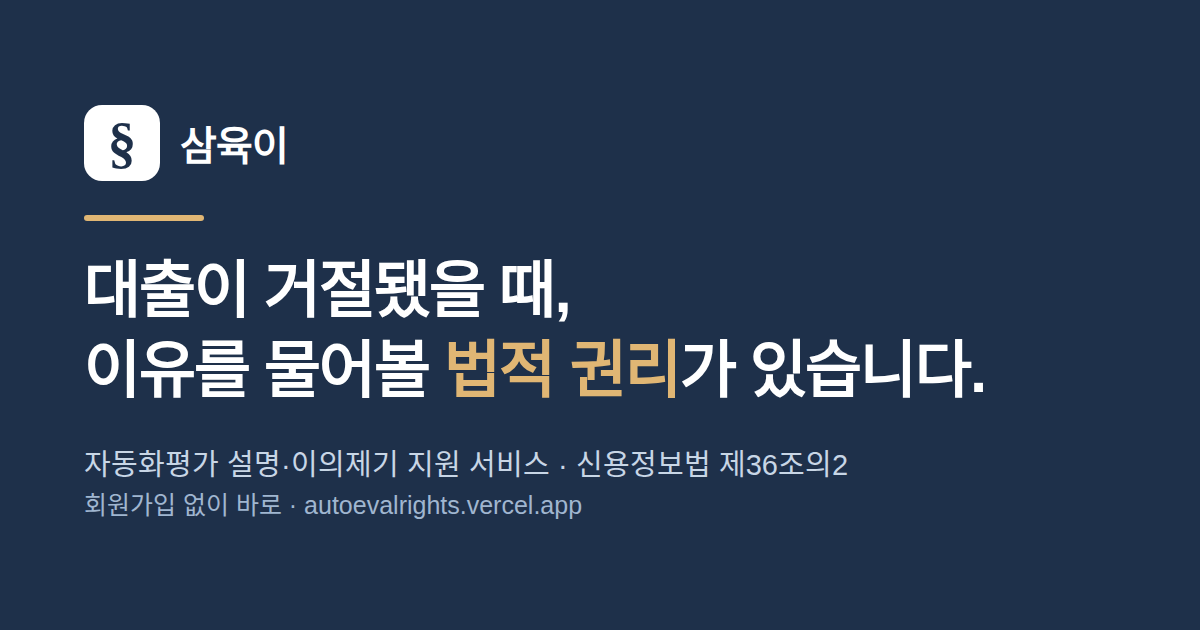
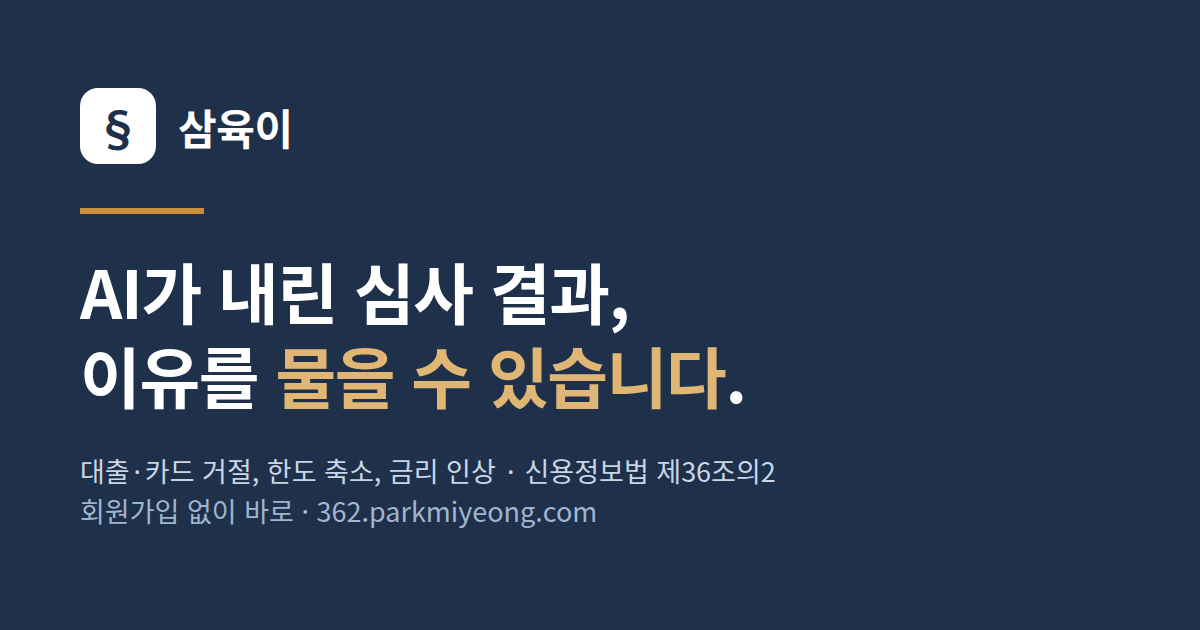
feat(A): 제목을 사건 하나에서 떼어낸다 · 서식 정본 미대조를 밝힌다
[A] 랜딩 제목
  앞선 제목은 "대출이 거절됐을 때"로 시작해 다섯 사건 중 하나에만 말을 걸었다.
  한도 축소·금리 인상으로 온 사람에게는 남의 이야기로 읽힌다.
  제목은 다섯 사건의 공통점(AI가 내린 심사 결과)을 말하고,
  사건 이름은 부제가 늘어놓는다. 부제의 조문에 근거 배지를 달았다.
  쉬운 말 보기 문구도 함께 넣었다 — 짧게 유지했다. 제목이 한 줄 늘 때마다
  375×667 에서 버튼과 자가진단이 첫 화면 밖으로 밀린다.

  재어 보고 확인했다(375×667): [내 상황으로 시작하기] 357→343,
  자가진단 제목 655→641. 둘 다 첫 화면 안에 남았고 오히려 올라왔다.

  링크 미리보기 카드(og.png)에도 옛 제목과 옛 주소가 그림으로 박혀 있었다.
  원본이 없어 고칠 수 없던 것이라 원본(tools/og-card.html)부터 만들고 다시 그렸다.

[A-2] 나머지 판단
  · /response 붙여넣기 칸 위치 — 그대로 둔다(예선의 사용자는 심사위원이다)
  · 진단 결과 CTA — 큰 버튼은 그대로 두고, 결과 앞머리에 조용한 한 줄을 더했다.
    결과 제목과 버튼 사이가 375px 에서 1,917px 였다. 큰 버튼을 위로 올리면
    권리를 보기 전에 눌러 버리므로 올리지 않았다.
  · 서식 1 정본 — 구하지 못하는 것으로 결론짓고, 그 사실을 화면에 적는다.
    "별지 15의2가 개정됐다"고 단정하지 않는다. 확인한 것은 감독규정이
    2026-08-13 개정됐다는 것까지다.

시험: tests/thero.mjs 28항목 신설. rename 의 "왜요?" 문장 검사는
      문장이 아니라 "이전 이름이 남지 않는다"를 검사하도록 바꿨다.

diff --git a/src/pages/Landing.jsx b/src/pages/Landing.jsx
@@ -94,16 +94,36 @@ export default function Landing() {
       {/* ── 1. 무슨 서비스인가 ───────────────────────────────── */}
       <section className="space-y-4">
         {/* 서비스 부제는 화면 맨 위 머리말에 이미 있다. 여기서 되풀이하지 않는다. */}
+        {/*
+          ★ 제목을 사건 하나에 묶지 않는다. (2026-08-31)
+            앞선 제목은 "대출이 거절됐을 때"로 시작했다. 그런데 이 서비스는
+            신용대출 거절·한도 축소·카드 발급 거절·금리 인상·리스/할부 거절을
+            모두 다룬다. 금리가 오른 사람에게 그 제목은 남의 이야기로 읽힌다.
+            제목은 다섯 사건의 공통점(= AI 가 정한 심사 결과)을 말하고,
+            사건 이름은 부제에서 늘어놓는다.
+        */}
         <h1 className="text-3xl font-bold leading-tight text-gray-900 sm:text-4xl">
-          대출이 거절됐을 때,
-          <br />
-          이유를 물어볼 <span className="text-ink-700">법적 권리</span>가 있습니다.
+          <Plain id="landing.hero">
+            AI가 내린 심사 결과,
+            <br />
+            이유를 <span className="text-ink-700">물을 수 있습니다</span>.
+          </Plain>
         </h1>
-        {/* 서비스가 무엇인지 한 줄. "왜요?"는 이제 이름이 아니라 설명 문장이다. */}
-        <p className="max-w-prose text-lg text-gray-800 sm:text-xl">
-          AI가 내린 결정에도 <b className="text-ink-800">&ldquo;왜요?&rdquo;</b>라고 물을 수
-          있습니다.
-          <b> 삼육이는 그 요구서를 대신 만들어 드립니다.</b>
+        {/* 부제 — 어느 사건이 해당되는지, 무엇을 근거로 하는지, 우리가 무엇을 하는지.
+            근거 배지는 이 문단 안에 인라인으로 둔다. 줄을 따로 만들면
+            375×667 에서 버튼이 첫 화면 밖으로 밀린다(측정해서 정한 자리다). */}
+        <p className="flex max-w-prose flex-wrap items-baseline gap-x-2 gap-y-1 text-lg text-gray-800 sm:text-xl">
+          <span>
+            <Plain id="landing.heroSub">
+              대출·카드 거절, 한도 축소, 금리 인상 —{' '}
+              <b className="text-ink-800">
+                {LAW_META.act.shortName} {LAW_META.act.article}
+              </b>
+              가 정한 권리입니다.
+            </Plain>{' '}
+            <b>삼육이는 그 요구서를 대신 만들어 드립니다.</b>
+          </span>
+          <Basis prefix="근거">{`${LAW_META.act.shortName} ${LAW_META.act.article}`}</Basis>
         </p>
 
         {/* ── 2. 바로 해 보기 — 제목 바로 아래 ───────────────── */}

diff --git a/tools/og-card.html b/tools/og-card.html
@@ -1,0 +1,53 @@
+<!doctype html>
+<!--
+  링크 미리보기 카드(public/og.png)의 원본.
+
+  ★ 이 파일이 원본이다. og.png 를 손으로 고치지 말고 여기를 고친 뒤
+    `node tools/make-og.mjs` 로 다시 그린다.
+    (앞서 만든 og.png 에는 원본이 없어, 랜딩 제목과 대표 주소가 바뀐 뒤에도
+     옛 문구와 옛 주소가 그림 안에 남아 있었다. 2026-08-31 에 이 파일을 만들었다.)
+
+  ★ 그림 안의 문구는 랜딩 h1 · index.html 의 og:image:alt 와 같아야 한다.
+    셋 중 하나만 고치면 미리보기와 화면이 서로 다른 말을 하게 된다.
+-->
+<html lang="ko">
+  <head>
+    <meta charset="UTF-8" />
+    <style>
+      * { margin: 0; padding: 0; box-sizing: border-box; }
+      html, body { width: 1200px; height: 630px; }
+      body {
+        background: #1e304a;
+        color: #fff;
+        font-family: 'Noto Sans KR', 'Malgun Gothic', system-ui, sans-serif;
+        padding: 88px 80px;
+        display: flex;
+        flex-direction: column;
+      }
+      .brand { display: flex; align-items: center; gap: 22px; }
+      .mark {
+        width: 76px; height: 76px; border-radius: 18px; background: #fff;
+        color: #1e304a; font-size: 46px; font-weight: 700;
+        display: flex; align-items: center; justify-content: center;
+      }
+      .name { font-size: 42px; font-weight: 700; letter-spacing: -0.01em; }
+      .rule { width: 124px; height: 6px; background: #c9903c; margin: 44px 0 34px; }
+      h1 { font-size: 66px; font-weight: 700; line-height: 1.28; letter-spacing: -0.02em; }
+      h1 em { font-style: normal; color: #e0b674; }
+      .sub { margin-top: 34px; font-size: 27px; color: #c8d6e6; line-height: 1.5; }
+      .sub .dim { color: #a0b6d0; }
+    </style>
+  </head>
+  <body>
+    <div class="brand">
+      <div class="mark">§</div>
+      <div class="name">삼육이</div>
+    </div>
+    <div class="rule"></div>
+    <h1>AI가 내린 심사 결과,<br />이유를 <em>물을 수 있습니다</em>.</h1>
+    <div class="sub">
+      대출·카드 거절, 한도 축소, 금리 인상 · 신용정보법 제36조의2<br />
+      <span class="dim">회원가입 없이 바로 · 362.parkmiyeong.com</span>
+    </div>
+  </body>
+</html>

diff --git a/index.html b/index.html
@@ -24,21 +24,21 @@
     <meta property="og:title" content="삼육이 — 자동화평가 설명·이의제기 지원 서비스" />
     <meta
       property="og:description"
-      content="AI가 내린 대출·카드 심사 결과에 설명을 요구하고, 유리한 정보를 내고, 다시 계산해 달라고 요구할 수 있습니다. 신용정보법 제36조의2. 회원가입 없이 바로 쓰실 수 있습니다."
+      content="AI가 내린 심사 결과 — 대출·카드 거절, 한도 축소, 금리 인상 — 에 설명을 요구하고, 유리한 정보를 내고, 다시 계산해 달라고 요구할 수 있습니다. 신용정보법 제36조의2. 회원가입 없이 바로 쓰실 수 있습니다."
     />
     <meta property="og:image" content="https://362.parkmiyeong.com/og.png" />
     <meta property="og:image:width" content="1200" />
     <meta property="og:image:height" content="630" />
     <meta
       property="og:image:alt"
-      content="삼육이 — 대출이 거절됐을 때, 이유를 물어볼 법적 권리가 있습니다"
+      content="삼육이 — AI가 내린 심사 결과, 이유를 물을 수 있습니다"
     />
 
     <meta name="twitter:card" content="summary_large_image" />
     <meta name="twitter:title" content="삼육이 — 자동화평가 설명·이의제기 지원 서비스" />
     <meta
       name="twitter:description"
-      content="AI가 내린 대출·카드 심사 결과에 설명을 요구하고, 유리한 정보를 내고, 다시 계산해 달라고 요구할 수 있습니다. 신용정보법 제36조의2."
+      content="AI가 내린 심사 결과 — 대출·카드 거절, 한도 축소, 금리 인상 — 에 설명을 요구하고, 유리한 정보를 내고, 다시 계산해 달라고 요구할 수 있습니다. 신용정보법 제36조의2."
     />
     <meta name="twitter:image" content="https://362.parkmiyeong.com/og.png" />
   </head>

diff --git a/src/data/law.js b/src/data/law.js
@@ -1231,6 +1231,30 @@ export const FORM_SIGNATURE_TEXTS = {
   signatureMark: '(서명 또는 인)',
 }
 
+/**
+ * ★ 정본 미대조 고지 — 서식 1·2 공통.
+ *
+ * 우리 재현본은 금융회사가 공개한 실물(BC카드·HB저축은행)을 보고 만들었다.
+ * 고시의 **별지 서식 원본**과는 대조하지 못했다. 별지 서식은 고시의 첨부 파일로만
+ * 제공되는데 그 파일을 받지 못했다(별지 제15호의4 와 같은 사정이다 — RESPONSE_FORM 참조).
+ *
+ * ★ 확인한 것과 확인하지 못한 것을 섞지 않는다.
+ *   확인한 것: 감독규정이 2026-08-13 개정됐다는 것(금융위원회고시 제2026-37호).
+ *   확인하지 못한 것: 그 개정이 별지 제15호의2·제15호의3 서식을 **바꾸었는지**,
+ *                    그리고 우리가 본 실물이 개정 **뒤**의 것인지.
+ *   "별지 15의2가 개정됐다"고 단정하지 않는다. 우리는 그것을 확인하지 않았다.
+ *
+ * 이 고지는 화면(서식 출처 상자)과 docs/facts.md 에 함께 적는다.
+ */
+export const FORM_ORIGINAL_UNVERIFIED = {
+  basis: '신용정보업감독규정 (금융위원회고시 제2026-37호, 2026. 8. 13., 일부개정)',
+  note:
+    '다만 고시의 별지 서식 원본과는 대조하지 못했습니다. 별지 서식은 고시의 첨부 파일로만 ' +
+    '제공되는데 그 파일을 받지 못했습니다. 감독규정이 2026-08-13 개정됐는데(금융위원회고시 ' +
+    '제2026-37호), 그 개정이 이 별지 서식을 바꾸었는지, 저희가 본 실물이 개정 뒤의 것인지는 ' +
+    '확인하지 못했습니다. 항목 구조나 문구가 원본과 다를 가능성이 남아 있습니다.',
+}
+
 export const FORM_EXPLANATION_REQUEST = {
   id: 'explanationRequest',
   title: '자동화평가 결과에 대한 설명요구서',

diff --git a/src/pages/Diagnose.jsx b/src/pages/Diagnose.jsx
@@ -569,6 +569,25 @@ function Result({ counterparty, transaction, sectionRef }) {
         )}
       </div>
 
+      {/*
+        ★ 다음으로 가는 길을 결과 앞머리에도 둔다. (2026-08-31)
+          결과의 실질은 아래 권리 카드 다섯 장이고 그건 줄일 것이 아니다.
+          다만 그 다섯 장을 다 지나야 버튼이 나온다 — 375px 에서 결과 제목과
+          버튼 사이가 1,917px, 1280px 에서 1,518px 이었다(재어 보고 적는다).
+          큰 버튼을 위로 올리면 권리를 보기 전에 눌러 버리므로 올리지 않았다.
+          여기에는 조용한 한 줄만 두고, 큰 버튼은 아래 그대로 남긴다.
+      */}
+      <p className="flex flex-wrap items-center gap-x-4 gap-y-1 text-sm text-gray-700">
+        <span className="font-semibold">바로 이어서 하시려면</span>
+        <Link to="/strategy" className="font-bold text-ink-700 underline">
+          제출할 정보 정하기
+        </Link>
+        <Link to="/document" className="font-bold text-ink-700 underline">
+          서식 만들기
+        </Link>
+        <span className="text-gray-500">— 아래에서 권리를 먼저 보셔도 됩니다.</span>
+      </p>
+
       <div>
         <h3 className="mb-3 border-l-4 border-ink-600 pl-3 text-base font-bold text-ink-800">
           제1항 — 설명 요구

diff --git a/src/pages/Document.jsx b/src/pages/Document.jsx
@@ -3,6 +3,7 @@ import { useSearchParams, Link } from 'react-router-dom'
 import {
   FORM_EXPLANATION_REQUEST,
   FORM_CORRECTION_REQUEST,
+  FORM_ORIGINAL_UNVERIFIED,
   FORM_REQUEST_ITEMS,
   FORM_SECTION1_REFUSAL_NOTICE,
   FORM_SECTION1_DISCREPANCY,
@@ -1177,6 +1178,13 @@ function DocumentSheet({ activeCase, form2Index }) {
           <b>서식 출처</b> — 이 서식은 {currentForm.source}을 기준으로 재현했습니다.{' '}
           {currentForm.sourceNote ?? currentForm.sourceCaveat}{' '}
           <Basis>{currentForm.basis}</Basis>
+        </p>
+        {/* ★ 확인하지 못한 것을 확인한 것처럼 두지 않는다.
+            우리는 기관 공개본을 보고 재현했고, 고시의 별지 원본과는 대조하지 못했다.
+            대조하지 못한 이상 "정본과 같다"고 말할 수 없고, 그 사실을 여기서 밝힌다. */}
+        <p className="rounded-md border border-seal-300 bg-seal-50 p-3 text-sm text-gray-800">
+          <b>원본과 대조하지 못했습니다</b> — {FORM_ORIGINAL_UNVERIFIED.note}{' '}
+          <Basis>{FORM_ORIGINAL_UNVERIFIED.basis}</Basis>
         </p>
         {/* ★ 안내가 버튼보다 먼저 눈에 들어와야 한다. 누른 뒤에 읽으면 늦다. */}
         <PrintSetupNotice />

diff --git a/src/data/plain.js b/src/data/plain.js
@@ -15,6 +15,13 @@
 
 export const PLAIN_TEXTS = {
   /* ── 첫 화면 ─────────────────────────────────────────────── */
+  /* 제목과 부제. "자동화평가"라는 말을 쓰지 않고 같은 뜻을 전한다.
+     법령 이름과 조문 번호는 인용이므로 그대로 둔다. */
+  /* ★ 짧게 유지한다. 375×667 에서 제목이 한 줄 늘 때마다 버튼과 자가진단이
+     첫 화면 밖으로 밀린다 — 재어 보고 정한 길이다. */
+  'landing.hero': '컴퓨터가 내린 심사 결과, 이유를 물을 수 있습니다.',
+  'landing.heroSub':
+    '대출·카드가 거절됐을 때, 한도가 줄었을 때, 금리가 올랐을 때 — 신용정보법 제36조의2가 정해 둔 권리입니다.',
   'landing.lead':
     '사람이 아니라 컴퓨터가 알아서 심사했다면, 왜 그런 결과가 나왔는지 알려 달라고 할 수 있습니다. 나에게 도움이 될 자료를 더 낼 수도 있고, 틀린 내용이 있으면 고쳐 달라고, 고친 다음 다시 계산해 달라고 할 수도 있습니다. 이 서비스는 그 요청서를 대신 써 드립니다.',
   'landing.rightsIntro':

diff --git a/docs/distribution.md b/docs/distribution.md
@@ -171,7 +171,9 @@
 ### 제안 5. 검색 유입은 용어를 버리는 데서 시작한다
 - 사용자는 "자동화평가"나 "제36조의2"를 검색하지 않는다.
   **"대출 거절 이유", "카드 발급 거절 왜", "한도 축소 이유"로 검색한다.**
-- 지금 랜딩 제목이 이미 그 말로 돼 있다("대출이 거절됐을 때, 이유를 물어볼 법적 권리가 있습니다").
+- 지금 랜딩 **부제**가 그 말을 그대로 담고 있다("대출·카드 거절, 한도 축소, 금리 인상").
+  제목은 다섯 사건의 공통점(AI가 내린 심사 결과)을 말하고, 검색어는 부제가 받는다.
+  (2026-08-31 이전에는 제목이 "대출이 거절됐을 때"였다. 사건 하나에 묶여 있어 바꿨다.)
   **이건 이미 한 일이므로 발표에서 말할 값어치가 있다.**
 
 ---
@@ -184,7 +186,8 @@
    이미 연체가 난 사람을 위한 것이었다. 연체 없이 거절당한 사람은 어느 창구의 명단에도 없다.
    그래서 이 서비스가 필요한 것이고, 동시에 그래서 닿기 어렵다.
 2. **검색어를 이미 바꿔 두었다.** 화면 어디에도 "자동화평가"로 시작하는 문장이 없다.
-   첫 문장은 "대출이 거절됐을 때, 이유를 물어볼 법적 권리가 있습니다"다.
+   첫 제목은 "AI가 내린 심사 결과, 이유를 물을 수 있습니다",
+   그 아래 부제가 "대출·카드 거절, 한도 축소, 금리 인상"이다.
 3. **사람을 거치는 경로가 현실적이다.** 서민금융통합지원센터·지자체 금융복지상담센터의
    **상담사용 한 장짜리 안내**가 가장 값싼 유통 경로다. 사용자에게 직접 광고하지 않는다.
 4. **교육 콘텐츠가 가장 확실한 자리다.** 금감원 e-금융교육센터의 "사회진출 전 금융소양 교육"은
